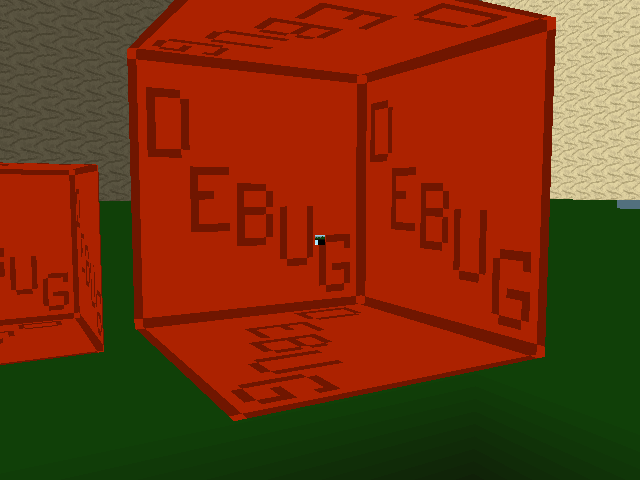
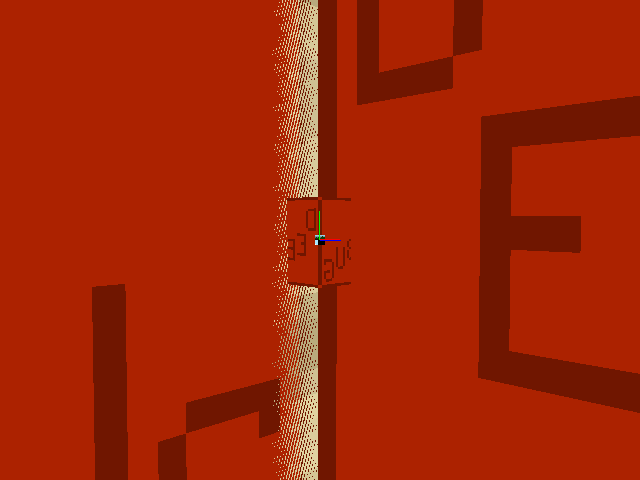
More progress on ray intersection algorithm

diff --git a/util/Ray.cs b/util/Ray.cs
@@ -33,6 +33,21 @@ namespace opentk_proj.util
         public Vector3 HitPositionYZ;
         public Vector3 HitPositionZX;
 
+        public Vector3 HitPositionXYZ;
+        public Vector3 HitPositionZYX;
+        public Vector3 HitPositionYXZ;
+
+        public Vector3 RHitPositionXY;
+        public Vector3 RHitPositionYX;
+        public Vector3 RHitPositionXZ;
+        public Vector3 RHitPositionZY;
+        public Vector3 RHitPositionYZ;
+        public Vector3 RHitPositionZX;
+
+        public Vector3 RHitPositionXYZ;
+        public Vector3 RHitPositionZYX;
+        public Vector3 RHitPositionYXZ;
+
         public Ray(Vector3 position, Vector3 direction) {
 
             Ray_Position = position;
@@ -107,18 +122,37 @@ namespace opentk_proj.util
             Vector3 DistToRay = ((float)Math.Ceiling(RayPositionOffsetted.X), (float)Math.Ceiling(RayPositionOffsetted.Y), (float)Math.Ceiling(RayPositionOffsetted.Z))
                 - RayPositionOffsetted;// - RayPositionOffsetted;
 
+            Vector3 RDistToRay = ((float)Math.Floor(RayPositionOffsetted.X), (float)Math.Floor(RayPositionOffsetted.Y), (float)Math.Floor(RayPositionOffsetted.Z))
+                - RayPositionOffsetted;
 
             Console.WriteLine("{0}, {1}", Ray_Position, DistToRay.X);
 
             Vector3 XYIntersect = (DistToRay.X, DistToRay.X * XYSlope, 0.0f);
             Vector3 XZIntersect = (DistToRay.X, 0.0f, DistToRay.X * XZSlope);
 
+            Vector3 RXYIntersect = (RDistToRay.X, RDistToRay.X * XYSlope, 0.0f);
+            Vector3 RXZIntersect = (RDistToRay.X, 0.0f, RDistToRay.X * XZSlope);
+
+            Vector3 XYZIntersect = (DistToRay.X, DistToRay.X * XYSlope, DistToRay.X * XZSlope);
+            Vector3 RXYZIntersect = (RDistToRay.X, RDistToRay.X * XYSlope, RDistToRay.X * XZSlope);
+
             Vector3 ZYIntersect = (0.0f, DistToRay.Z * ZYSlope, DistToRay.Z);
             Vector3 ZXIntersect = (DistToRay.Z * ZXSlope, 0.0f, DistToRay.Z);
+
+            Vector3 RZYIntersect = (0.0f, RDistToRay.Z * ZYSlope, RDistToRay.Z);
+            Vector3 RZXIntersect = (RDistToRay.Z * ZXSlope, 0.0f, RDistToRay.Z);
+
+            Vector3 ZYXIntersect = (DistToRay.Z * ZXSlope, DistToRay.Z * ZYSlope, DistToRay.Z);
+            Vector3 RZYXIntersect = (RDistToRay.Z * ZXSlope, RDistToRay.Z * ZYSlope, RDistToRay.Z);
 
             Vector3 YXIntersect = (DistToRay.Y * YXSlope, DistToRay.Y, 0.0f);
             Vector3 YZIntersect = (0.0f, DistToRay.Y, DistToRay.Y * YZSlope);
 
+            Vector3 RYXIntersect = (RDistToRay.Y * YXSlope, RDistToRay.Y, 0.0f);
+            Vector3 RYZIntersect = (0.0f, RDistToRay.Y, RDistToRay.Y * YZSlope);
+
+            Vector3 YXZIntersect = (DistToRay.Y * YXSlope, DistToRay.Y, DistToRay.Y * YZSlope);
+            Vector3 RYXZIntersect = (RDistToRay.Y * YXSlope, RDistToRay.Y, RDistToRay.Y * YZSlope);
 
             HitPositionXY = XYIntersect;
             HitPositionXZ = XZIntersect;
@@ -126,6 +160,24 @@ namespace opentk_proj.util
             HitPositionZX = ZXIntersect;
             HitPositionYX = YXIntersect;
             HitPositionYZ = YZIntersect;
+
+            HitPositionXYZ = XYZIntersect;
+            HitPositionZYX = ZYXIntersect;
+            HitPositionYXZ = YXZIntersect;
+
+            RHitPositionXY = RXYIntersect;
+            RHitPositionXZ = RXZIntersect;
+            RHitPositionZY = RZYIntersect;
+            RHitPositionZX = RZXIntersect;
+            RHitPositionYX = RYXIntersect;
+            RHitPositionYZ = RYZIntersect;
+
+            RHitPositionXYZ = RXYZIntersect;
+            RHitPositionZYX = RZYXIntersect;
+            RHitPositionYXZ = RYXZIntersect;
+
+
+
 
         }
         public bool Hit_Triangle(float[] vertices, int offset, NakedModel model, BoundingBox boundingBox)

diff --git a/Game.cs b/Game.cs
@@ -584,15 +584,75 @@ namespace opentk_proj
 
             hitdisplay.SetScale(0.1f, 0.1f, 0.1f);
 
-            hitdisplay.Draw(camera.position + ray.HitPositionXY, camera, (float)time);
-            hitdisplay.Draw(camera.position + ray.HitPositionXZ, camera, (float)time);
+            // ray for +x 
+            //hitdisplay.Draw(camera.position + ray.HitPositionXY, camera, (float)time);
+            //hitdisplay.Draw(camera.position + ray.HitPositionXZ, camera, (float)time);
+            // ray for -x
+            //hitdisplay.Draw(camera.position + ray.RHitPositionXY, camera, (float)time);
+            //hitdisplay.Draw(camera.position + ray.RHitPositionXZ, camera, (float)time);
 
-            hitdisplay.Draw(camera.position + ray.HitPositionZY, camera, (float)time);
-            hitdisplay.Draw(camera.position + ray.HitPositionZX, camera, (float)time);
+            Console.WriteLine(camera.front);
 
-            hitdisplay.Draw(camera.position + ray.HitPositionYX, camera, (float)time);
-            hitdisplay.Draw(camera.position + ray.HitPositionYZ, camera, (float)time);
+            if (camera.front.X < 0)
+            {
+                hitdisplay.Draw(camera.position + ray.RHitPositionXYZ, camera, (float)time);
+            } else
+            {
+                hitdisplay.Draw(camera.position + ray.HitPositionXYZ, camera, (float)time);
+            }
+            /* hitdisplay.Draw(camera.position + ray.RHitPositionXYZ, camera, (float)time);
 
+            // ray for +z
+
+
+               // hitdisplay.Draw(camera.position + ray.RHitPositionZY, camera, (float)time);
+
+    
+
+                // hitdisplay.Draw(camera.position + ray.RHitPositionZX, camera, (float)time);
+
+            //hitdisplay.Draw(camera.position + ray.HitPositionZY, camera, (float)time);
+            //hitdisplay.Draw(camera.position + ray.HitPositionZX, camera, (float)time);
+            // ray for -z
+            //hitdisplay.Draw(camera.position + ray.RHitPositionZY, camera, (float)time);
+            //hitdisplay.Draw(camera.position + ray.RHitPositionZX, camera, (float)time); */
+
+            if (camera.front.Z < 0)
+            {
+
+                hitdisplay.Draw(camera.position + ray.RHitPositionZYX, camera, (float)time);
+
+            } else
+            {
+
+                hitdisplay.Draw(camera.position + ray.HitPositionZYX, camera, (float)time);
+
+            }
+
+            /*hitdisplay.Draw(camera.position + ray.HitPositionZYX, camera, (float)time);
+            //hitdisplay.Draw(camera.position + ray.RHitPositionZYX, camera, (float)time);
+
+            // ray for +y
+            //hitdisplay.Draw(camera.position + ray.HitPositionYX, camera, (float)time);
+            //hitdisplay.Draw(camera.position + ray.HitPositionYZ, camera, (float)time);
+            // ray for -y
+            //hitdisplay.Draw(camera.position + ray.RHitPositionYX, camera, (float)time);
+            //hitdisplay.Draw(camera.position + ray.RHitPositionYZ, camera, (float)time); */
+
+            if (camera.front.Y < 0)
+            {
+
+                hitdisplay.Draw(camera.position + ray.RHitPositionYXZ, camera, (float)time);
+
+            } else
+            {
+
+                hitdisplay.Draw(camera.position + ray.HitPositionYXZ, camera, (float)time);
+
+            }
+
+            //hitdisplay.Draw(camera.position + ray.HitPositionYXZ, camera, (float)time);
+            //hitdisplay.Draw(camera.position + ray.RHitPositionYXZ, camera, (float)time);
 
             //GL.BindTexture(TextureTarget.Texture2D, 0);
             shader.UnUse();
